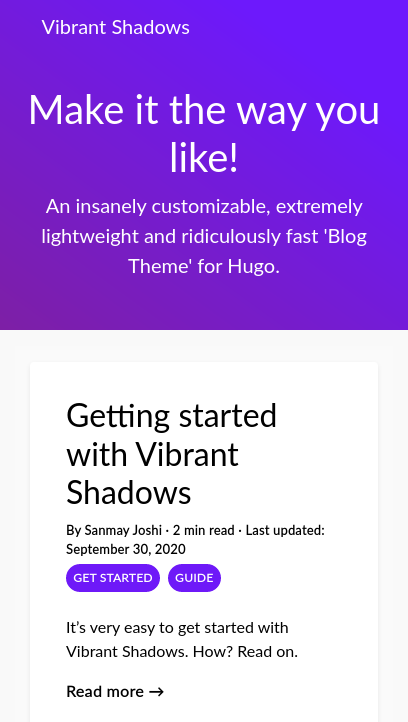
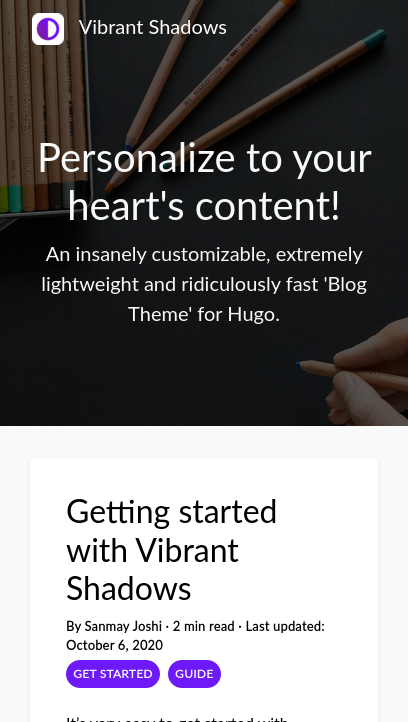
Updated screenshot and thumbnail; other minor changes

diff --git a/exampleSite/content/post/Additional info.md b/exampleSite/content/post/Additional info.md
@@ -2,7 +2,7 @@
 title: "Additional information about the theme"
 author: "Sanmay Joshi"
 description: "Additional info about the theme, like 'Built with', 'Contributing', and 'License'."
-tags: ["learn more", "license"]
+tags: ["license"]
 date: "2020-10-01"
 ---
 We share some additional information about this theme, that may be relevant.
